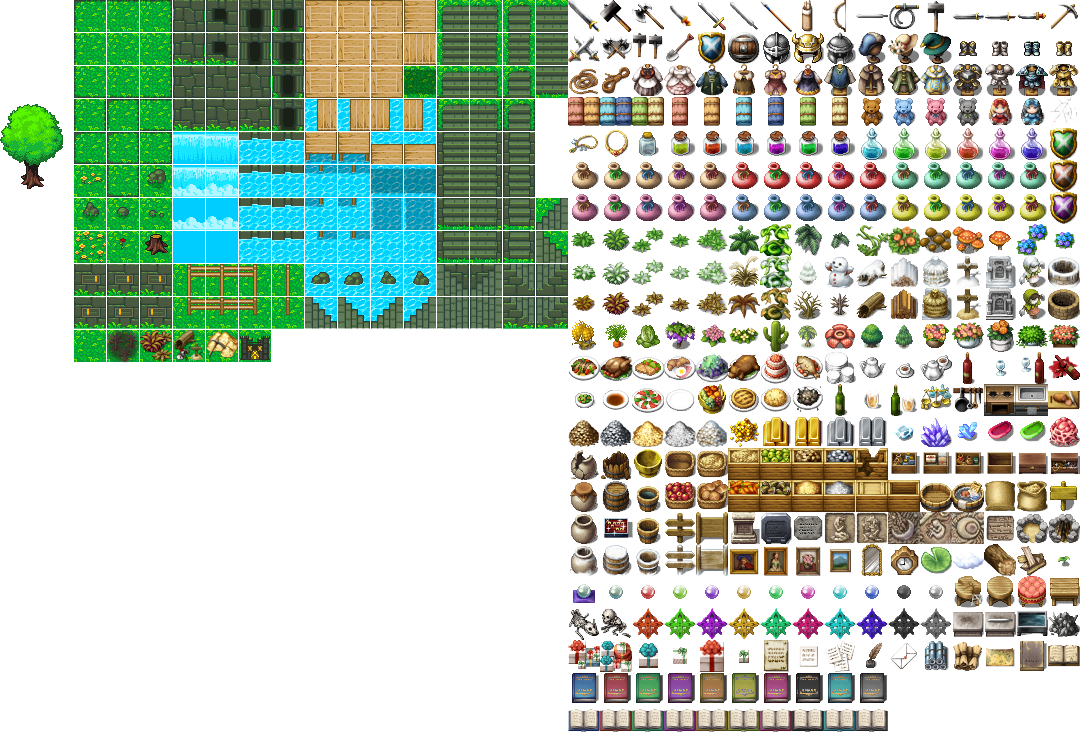
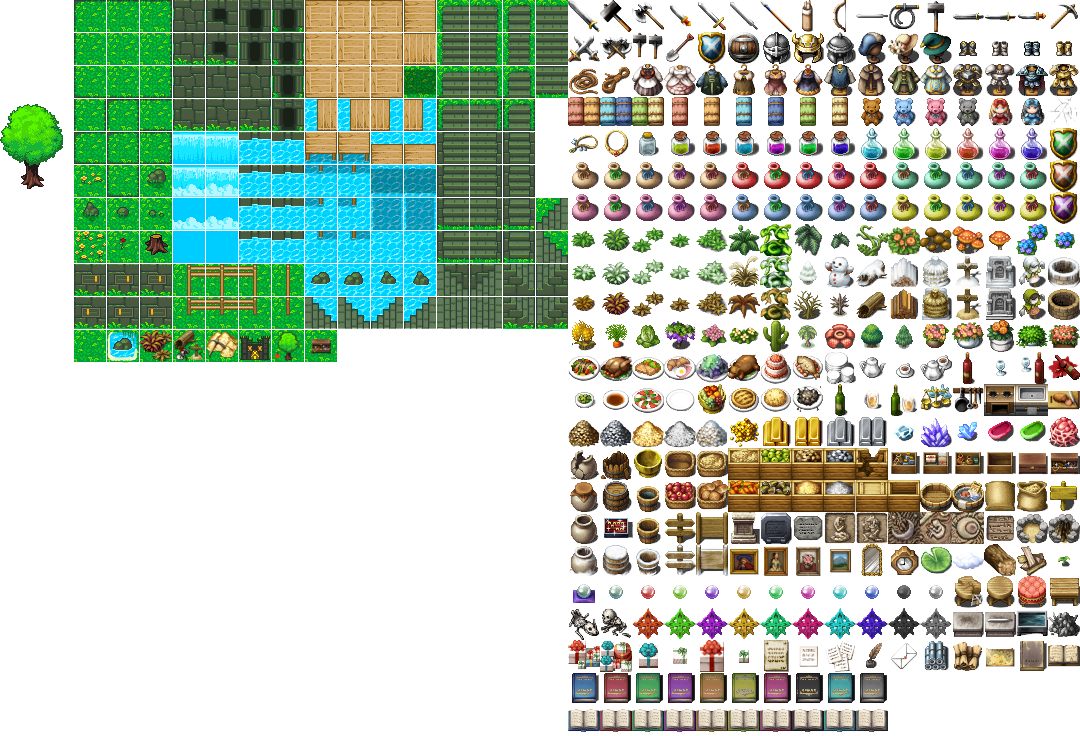
added new map sprites

diff --git a/war_game/war_game/Entities/GameScreen.cpp b/war_game/war_game/Entities/GameScreen.cpp
@@ -6,7 +6,9 @@ GameScreen::GameScreen()
 
 int GameScreen::Run(sf::RenderWindow &App, GameManager &gm)
 {
-	//gm.Start();
+	//sf::View view;
+	/*view.setSize(sf::Vector2f(975, 480));
+	view.setCenter(sf::Vector2f(0, 0));*/
 	bool running = true;
 	sf::Sprite mapSprite;
 	while (running)
@@ -25,7 +27,17 @@ int GameScreen::Run(sf::RenderWindow &App, GameManager &gm)
 					return 0;
 				}
 			}
+			/*if (event.type == sf::Event::MouseMoved)
+			{
+			
+			}*/
+			if (event.type == sf::Event::Resized)
+			{
+				sf::FloatRect visibleArea(0.f, 0.f, event.size.width, event.size.height);
+				App.setView(sf::View(visibleArea));
+			}
 			App.clear();
+			//App.setView(view);
 			gm.DrawMap(mapSprite, App);
 			App.display();
 		}

diff --git a/war_game/war_game/Entities/Map.cpp b/war_game/war_game/Entities/Map.cpp
@@ -373,6 +373,7 @@ void Map::DrawMapIntoWindow(sf::Sprite& mapSprite, sf::RenderWindow& App)
 			{
 			case 0:
 				mapSprite.setTextureRect(sf::IntRect(107, 330, 32, 32));
+				//mapSprite.setTextureRect(sf::IntRect(272, 330, 32, 32));
 				break;
 			case 1:
 				mapSprite.setTextureRect(sf::IntRect(74, 330, 32, 32));
@@ -381,7 +382,7 @@ void Map::DrawMapIntoWindow(sf::Sprite& mapSprite, sf::RenderWindow& App)
 				mapSprite.setTextureRect(sf::IntRect(140, 330, 32, 32));
 				break;
 			case 3:
-				mapSprite.setTextureRect(sf::IntRect(173, 330, 32, 32));
+				mapSprite.setTextureRect(sf::IntRect(173, 330, 32, 32));			
 				break;
 			}
 			if (this->map[i][j].IsBarrack())

diff --git a/war_game/war_game/main.cpp b/war_game/war_game/main.cpp
@@ -22,19 +22,19 @@ int main()
 
 	ContextSettings settings;
 	settings.antialiasingLevel = 8;
-	RenderWindow window(VideoMode(975, 480), "microChelik", Style::Default , settings);
+	RenderWindow window(VideoMode(975, 480), "MACROASSEMBLER", Style::Default , settings);
 	window.setVerticalSyncEnabled(true);
 
 	sf::Music backgroundMusic;
 	backgroundMusic.openFromFile("Utils/Rampart.wav");
 	backgroundMusic.setLoop(true);
 	backgroundMusic.play();
-	
+
 	GenMapScreen genMapScreen;
 	MenuScreen menuScreen;
 	EditMapScreen editMapScreen;
 	GameScreen gameScreen;
-
+	
 	Screens.push_back(&menuScreen);
 	Screens.push_back(&genMapScreen);
 	Screens.push_back(&gameScreen);
